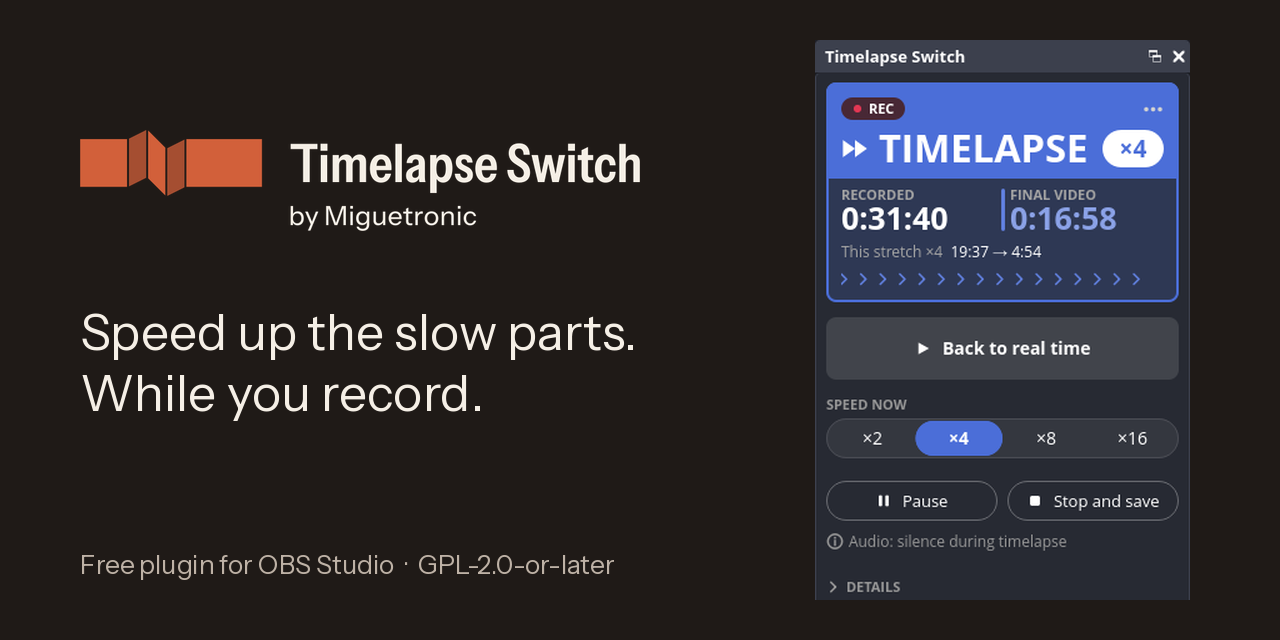
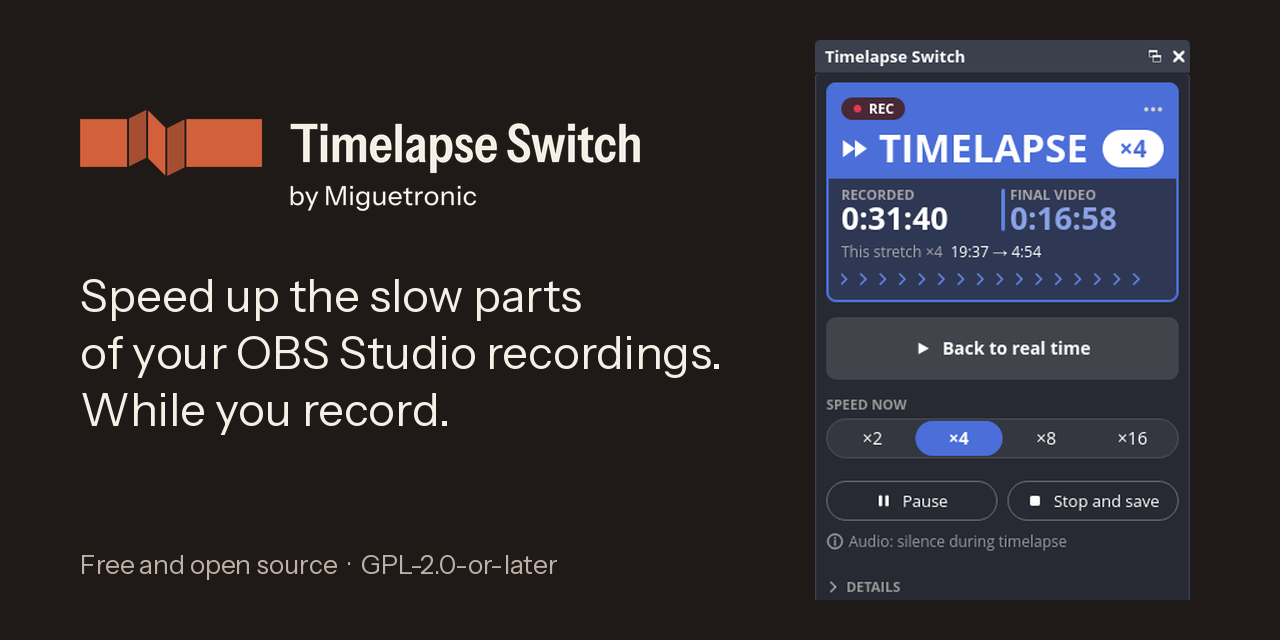
docs: social preview names OBS Studio
The social preview now carries the same line as the README and the home
page ("Speed up the slow parts of your OBS Studio recordings. While you
record."), so the footer says "Free and open source" instead. images.py
can make the social preview alone from a dock picture made earlier
(--dock), without running the OBS themes again.

Changed region(s): [[0.0625, 0.4375, 0.5625, 0.6875], [0.0625, 0.1562, 0.5, 0.375], [0.0938, 0.8438, 0.4688, 0.9062]]

diff --git a/tools/demo/images.py b/tools/demo/images.py
@@ -6,6 +6,10 @@
 
     images.py --screenshots build_x86_64/ui-screenshots --logo <logo-dark PNG> --font <ttf>
               --out site/src/assets/dock --social docs/images/social-preview.png
+    images.py --dock site/src/assets/dock/dock-timelapse-dark.png --logo <logo-dark PNG> --font <ttf>
+              --social docs/images/social-preview.png
+
+The second form makes only the social preview, from a dock picture made earlier.
 
 The dock pictures come from tests/ui/obs-themes.sh (plus a square version for the website's hero) (the dock as OBS draws it, in OBS's own themes),
 cropped to the dock's height. The social preview (1280 x 640, the size GitHub asks for) puts the
@@ -66,13 +70,13 @@ def social_preview(logo_path: str, font_path: str, dock: Image.Image, out: str) 
     logo = Image.open(logo_path).convert("RGBA")
     logo = logo.crop(logo.getbbox())  # the PNG has a transparent margin around the logo
     logo = logo.resize((560, int(560 * logo.height / logo.width)), Image.LANCZOS)
-    image.paste(logo, (80, 130), logo)
+    image.paste(logo, (80, 110), logo)
     draw = ImageDraw.Draw(image)
-    title = ImageFont.truetype(font_path, 50)
+    title = ImageFont.truetype(font_path, 46)
     small = ImageFont.truetype(font_path, 26)
-    draw.text((80, 130 + logo.height + 70), "Speed up the slow parts.\nWhile you record.", font=title,
-              fill=CANVAS, spacing=12)
-    draw.text((80, 548), "Free plugin for OBS Studio  ·  GPL-2.0-or-later", font=small, fill=MUTED)
+    draw.text((80, 110 + logo.height + 56), "Speed up the slow parts\nof your OBS Studio recordings.\nWhile you record.",
+              font=title, fill=CANVAS, spacing=12)
+    draw.text((80, 548), "Free and open source  ·  GPL-2.0-or-later", font=small, fill=MUTED)
     dock = dock.convert("RGBA")
     dock = dock.resize((int(dock.width * 1.25), int(dock.height * 1.25)), Image.LANCZOS)
     top = max(40, (640 - dock.height) // 2)
@@ -82,12 +86,21 @@ def social_preview(logo_path: str, font_path: str, dock: Image.Image, out: str) 
 
 def main() -> int:
     parser = argparse.ArgumentParser(description=__doc__.splitlines()[0])
-    for name in ("screenshots", "logo", "font", "out", "social"):
+    for name in ("logo", "font", "social"):
         parser.add_argument(f"--{name}", required=True)
+    parser.add_argument("--screenshots", help="with --out: make the dock pictures too")
+    parser.add_argument("--out")
+    parser.add_argument("--dock", help="instead of --screenshots: the dark timelapse dock picture")
     args = parser.parse_args()
-    dock = dock_pictures(args.screenshots, args.out)
+    if args.dock:
+        dock = Image.open(args.dock)
+    elif args.screenshots and args.out:
+        dock = dock_pictures(args.screenshots, args.out)
+        print(f"dock pictures in {args.out}")
+    else:
+        parser.error("give --dock, or --screenshots and --out")
     social_preview(args.logo, args.font, dock, args.social)
-    print(f"dock pictures in {args.out}, social preview in {args.social}")
+    print(f"social preview in {args.social}")
     return 0
 
 
